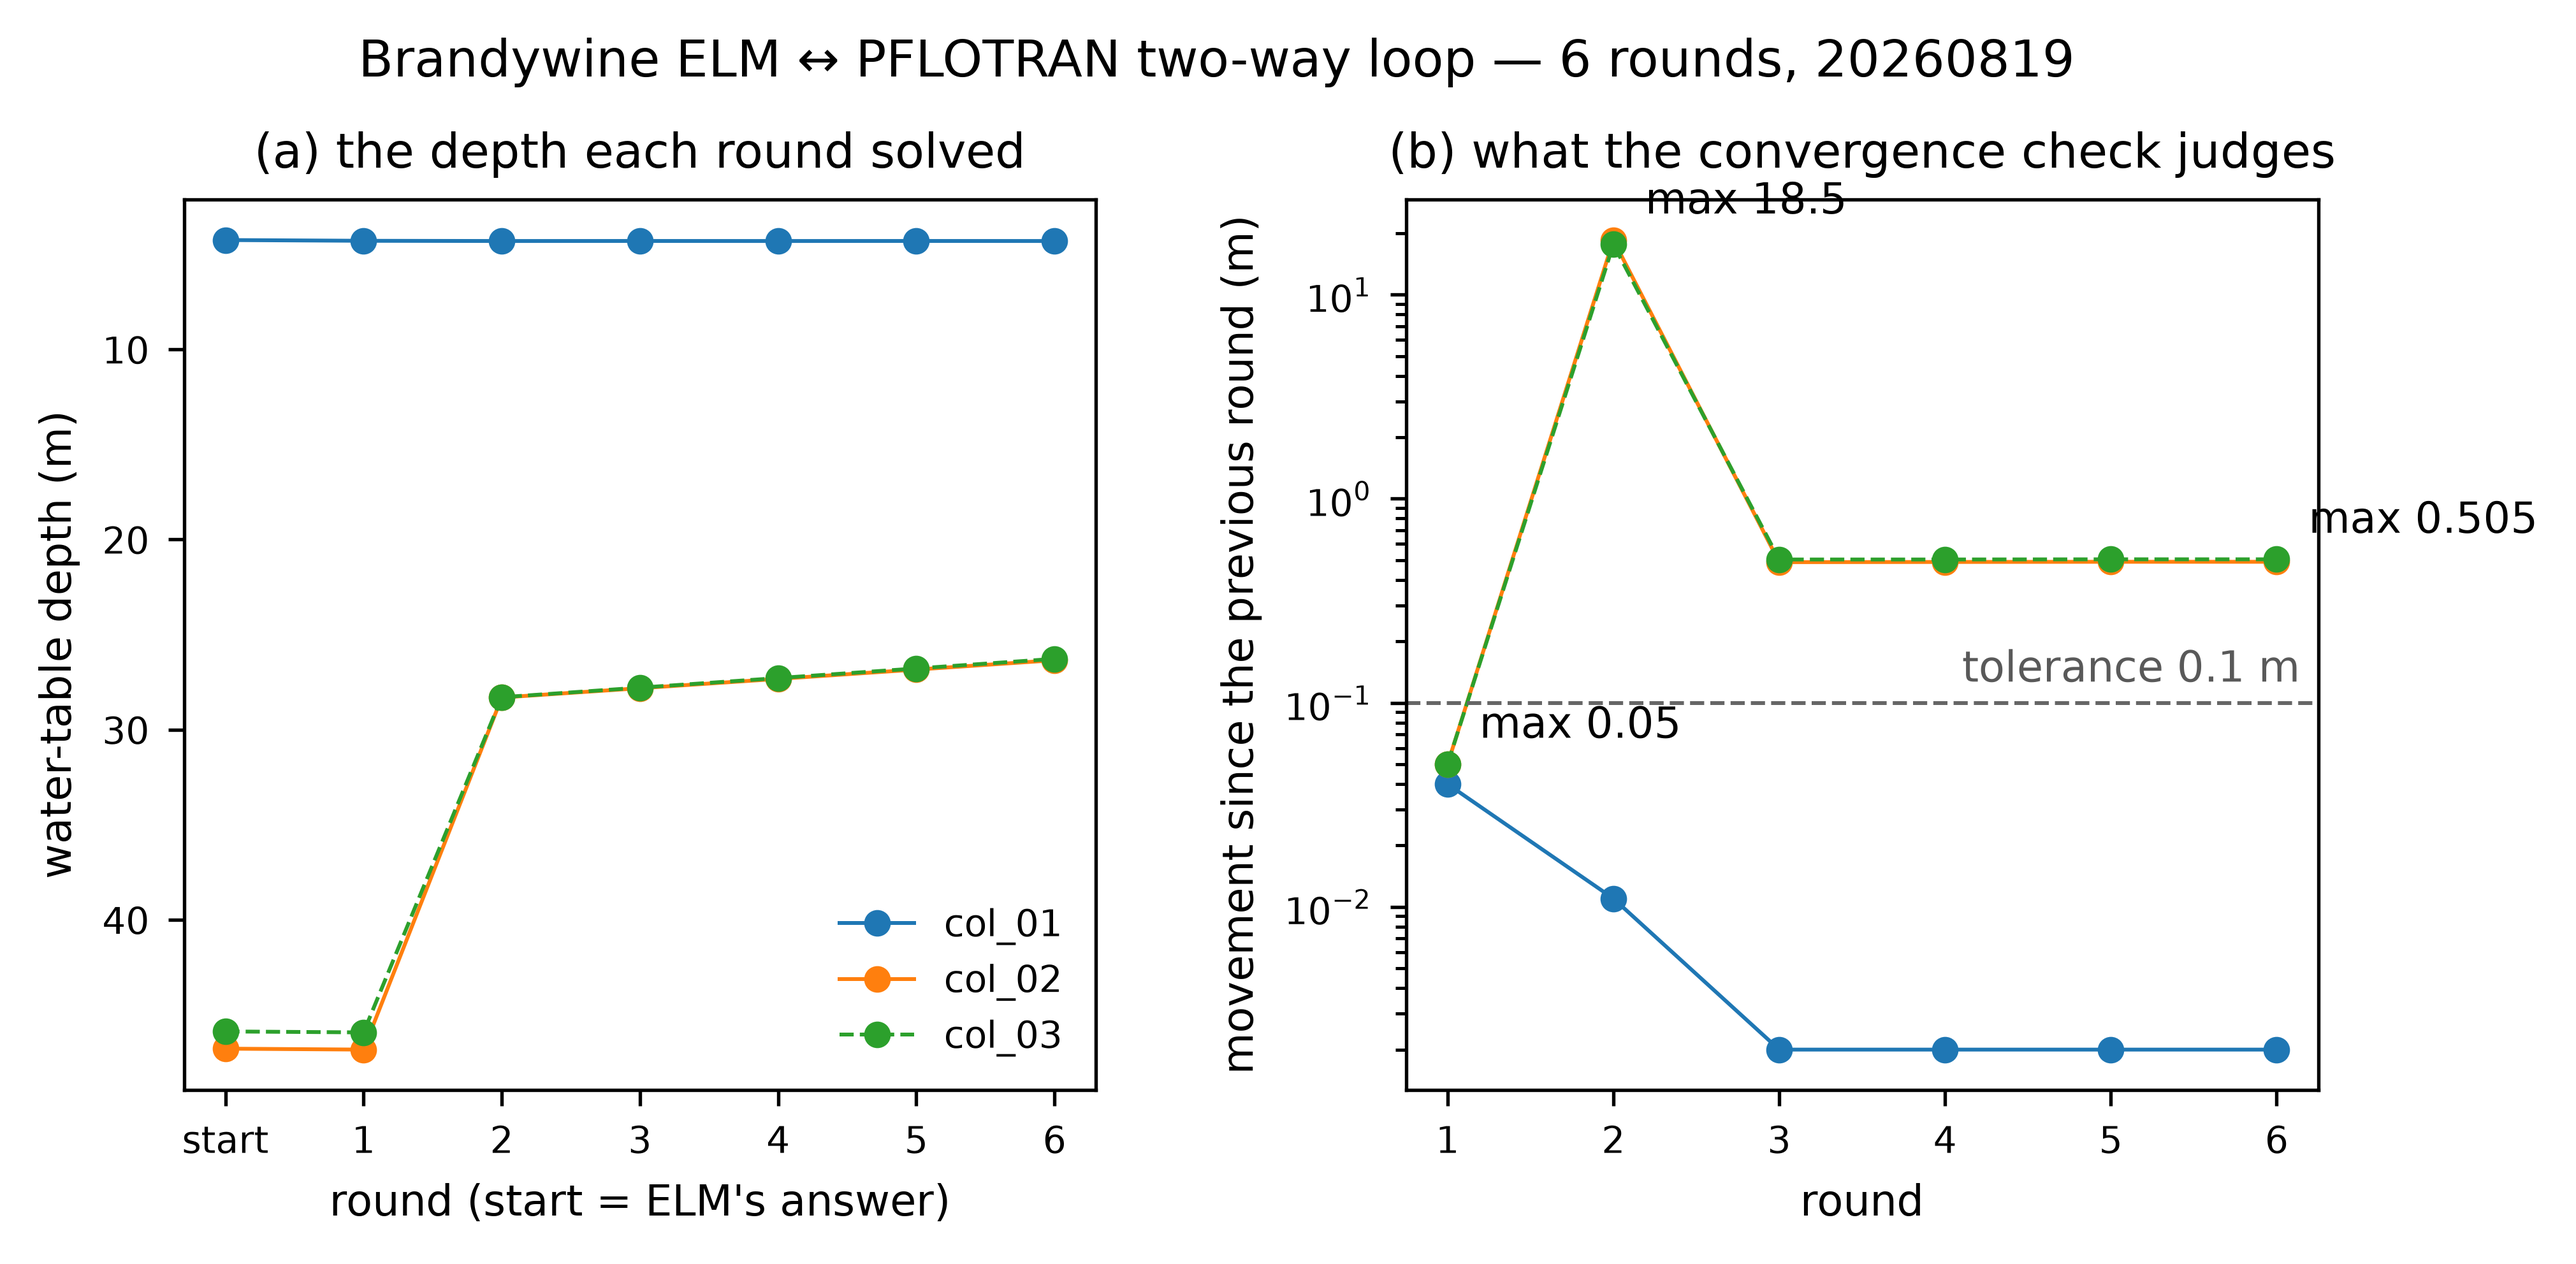
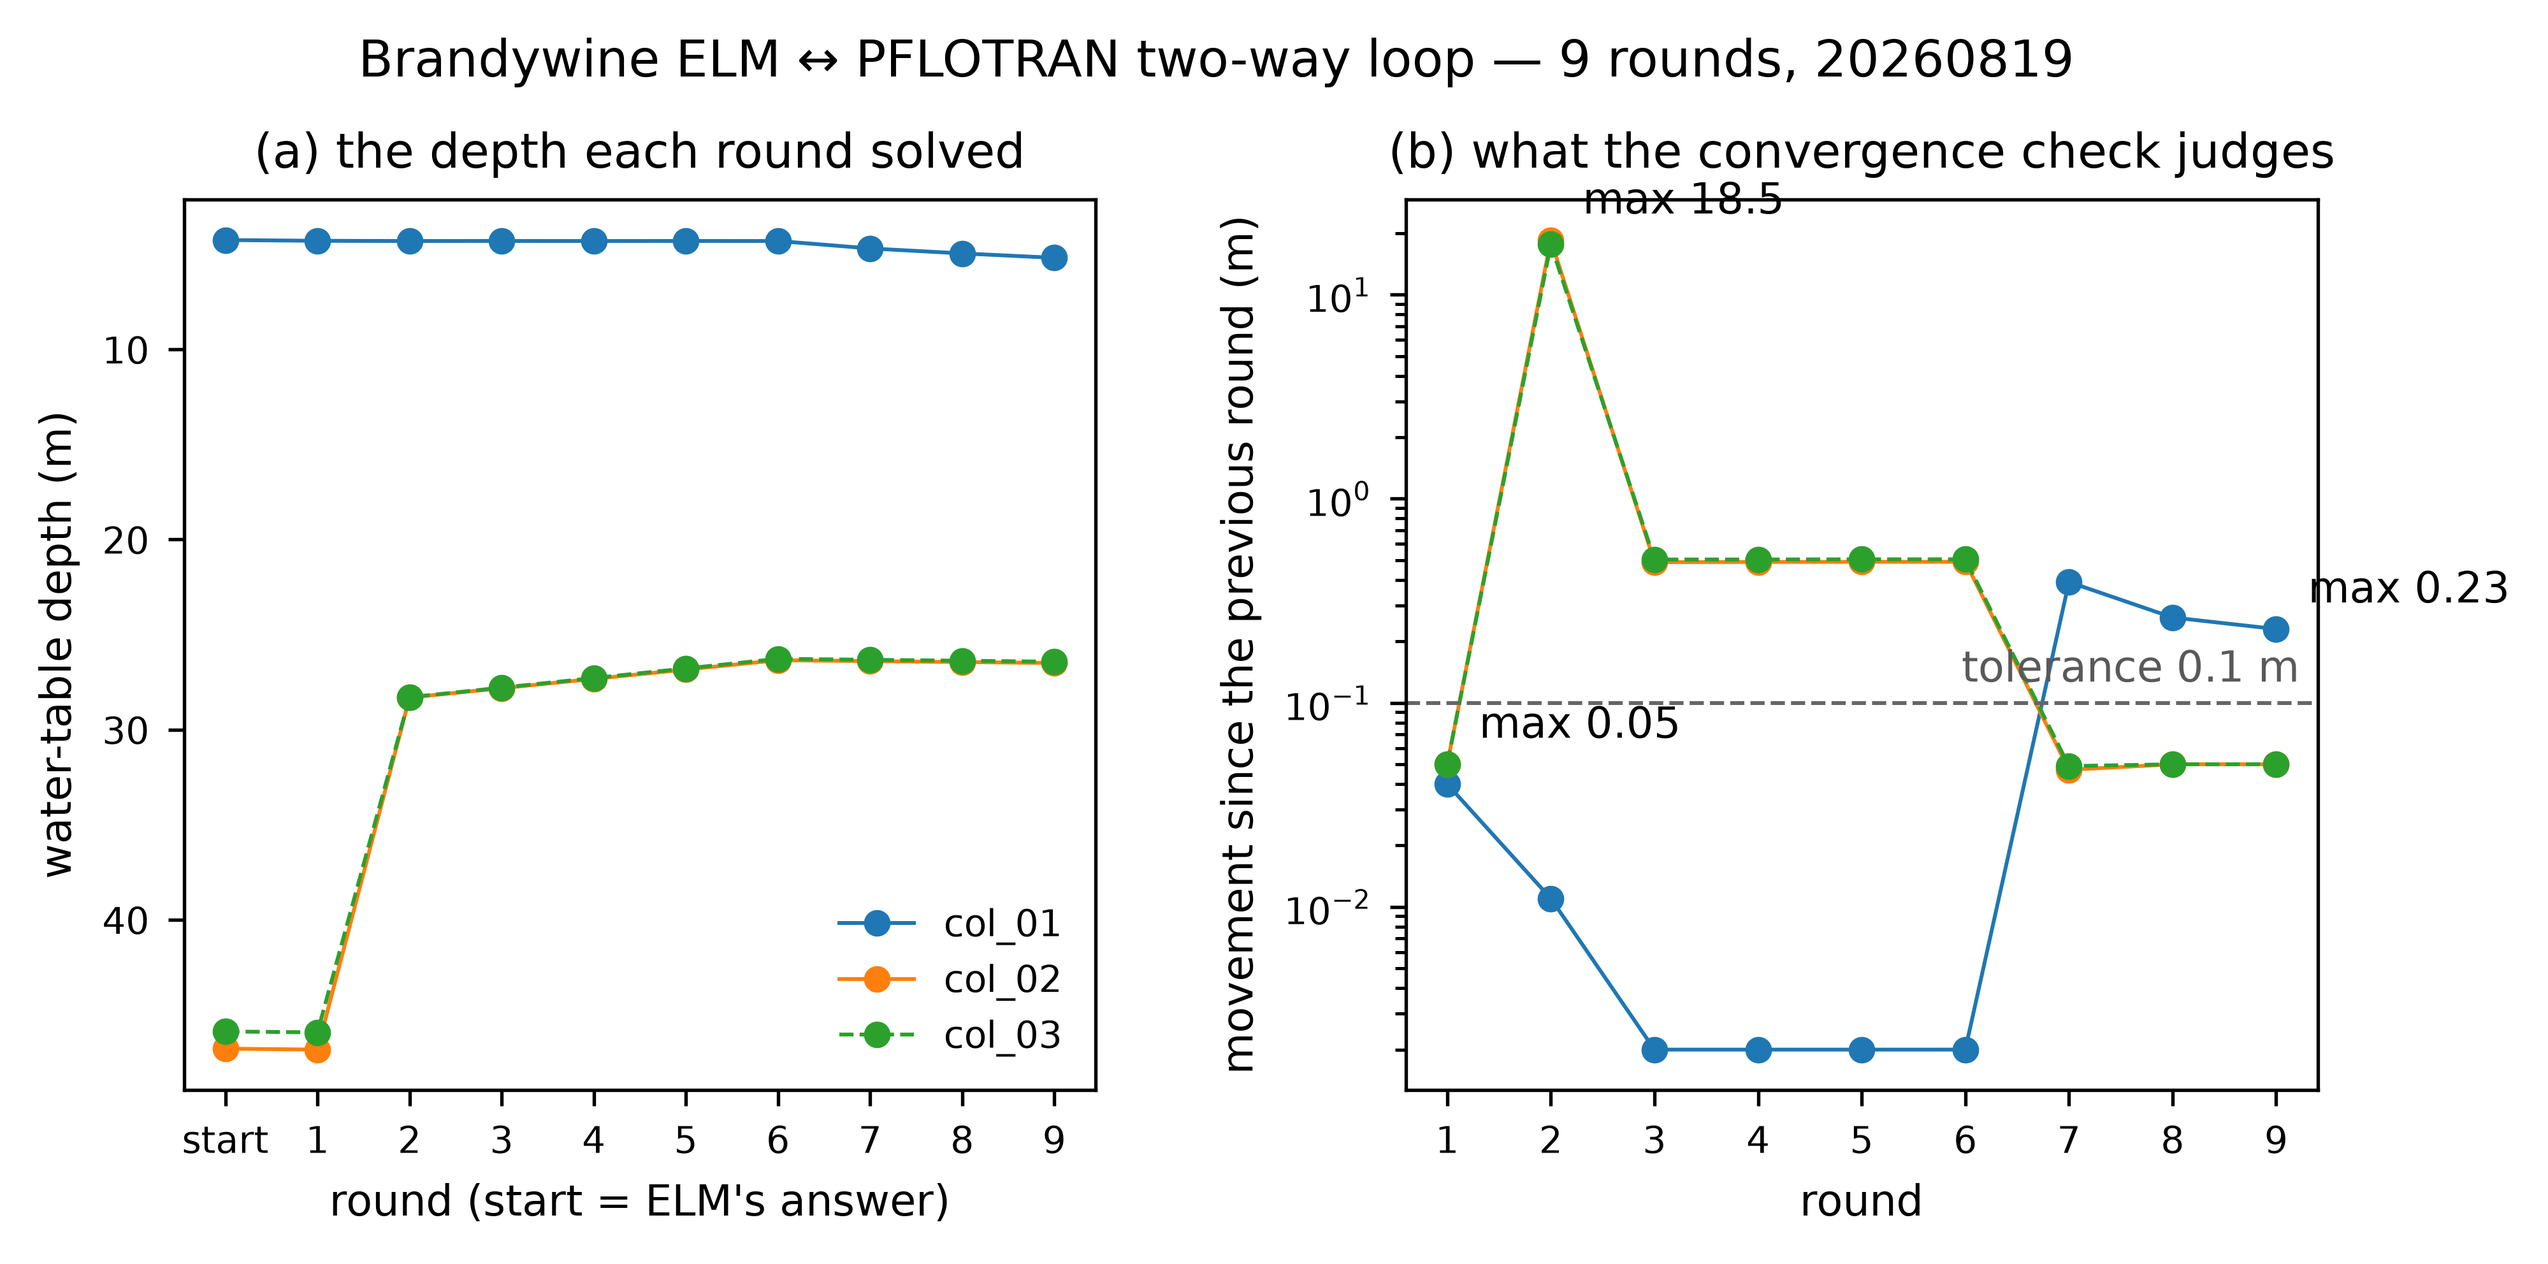
Nine rounds: the deep-column drift was the incoherent start, and it is gone
Job 774852 (rounds 7-9, the first with the full-state return leg)
measured what the soil-moisture stamp changes. The deep columns' constant
0.50 m-per-round march — four rounds without shrinking under the
water-table-only return — collapsed to 0.05 m per round (the anchor
offset's floor, inside tolerance) the moment ELM started from PFLOTRAN's
own moisture. The shallow column then re-equilibrated to its drier soil:
0.39 -> 0.26 -> 0.23 m per round, still contracting at budget end and
already below its own within-year swing (0.38 m). Figure extended to all
nine rounds; slide 6 tells the corrected story.

diff --git a/docs/reference/results_slides.template.html b/docs/reference/results_slides.template.html
@@ -229,7 +229,7 @@
     <span class="eyebrow">6 · two-way coupling · PFLOTRAN's groundwater corrects ELM</span>
     <span class="pill p-ok">6 rounds · each leg's verdict: sufficient</span>
   </div>
-  <div class="meta"><span>one SLURM job (773722) · sbatch once, both models inside</span><span>Brandywine-Christina · 2010</span><span>tolerance 0.10 m on movement between rounds</span></div>
+  <div class="meta"><span>nine rounds, two SLURM jobs (773722, 774852) — sbatch once each, both models inside</span><span>Brandywine-Christina · 2010</span><span>tolerance 0.10 m on movement between rounds</span></div>
   <p class="q">"Iterate: ELM's drainage drives PFLOTRAN; PFLOTRAN's solved water
      table becomes ELM's next starting state — until the water table stops
      moving."</p>
@@ -251,19 +251,19 @@
       <figcaption>Inside one return leg: ELM's own water table through the year, measured from the depth PFLOTRAN handed it. The Analyzer drew this unprompted — the coupling facts ride each column like any other fact.</figcaption></figure>
   </div>
   <ul class="res">
-    <li><b>Six full rounds inside a single 1 h 15 m allocation</b> — ELM ensembles run in place, PFLOTRAN inline, a convergence check between every round.</li>
-    <li>Round 2 delivered the big correction: <b>18.5 m</b> at the deep columns. The shallow column then settled at <b>0.002 m per round — converged</b>.</li>
-    <li>The deep columns move a constant <b>≈0.50 m every round</b> (0.504, 0.504, 0.505, 0.505): a steady physical drift — ELM sends them no drainage, PFLOTRAN keeps draining — not a shrinking numerical error.</li>
-    <li>Every ELM return leg was read by the Analyzer with no special casing: it found the coupling facts on the columns, drew the drift, and reported ELM holding within ≈1 m of the imposed water table.</li>
+    <li><b>Nine full rounds</b>, each allocation submitted once — ELM ensembles run in place, PFLOTRAN inline, a convergence check between every round. Round 2 delivered the big correction: <b>18.5 m</b> at the deep columns.</li>
+    <li>Rounds 3–6 handed back only the water table, and the deep columns marched a constant <b>≈0.50 m every round</b> — a drift that never shrank.</li>
+    <li>From round 7 the return leg carried PFLOTRAN's <b>whole state</b> — water table and soil moisture, converted with ELM's own porosity — and the drift <b>vanished</b>: the deep columns now move 0.05 m per round, inside tolerance. Most of the "drift" was the incoherent start draining away, not groundwater physics.</li>
+    <li>The shallow column then honestly re-equilibrated to its drier soil: <b>0.39 → 0.26 → 0.23 m per round</b>, still contracting at the budget's end — movement already smaller than its own within-year swing (0.38 m).</li>
+    <li>Every ELM return leg was read by the Analyzer with no special casing; the +0.05 m anchor offset is printed as a diagnostic, never the verdict.</li>
   </ul>
-  <div class="take"><b>take-away</b>The information flows PFLOTRAN → ELM: the
-    18.5 m round-2 correction is PFLOTRAN's groundwater physics repairing
-    starting states ELM cannot fix itself — its own groundwater is a single
-    store that bottoms out at 28.8 m, with drainage switched off below the
-    3.8 m active soil. ELM's flux is the boundary that keeps PFLOTRAN honest.
-    The machinery is proven — one job, six rounds, honest verdicts; what
-    remains is science: the deep columns drift 0.5 m per round toward a much
-    deeper balance.</div>
+  <div class="take"><b>take-away</b>The information flows PFLOTRAN → ELM — and
+    handing back the <i>whole</i> state matters. The water table alone left a
+    0.5 m-per-round artifact that looked like physics; adding the soil
+    moisture, converted with ELM's own porosity, removed it in one round.
+    Nine rounds, two jobs, honest verdicts throughout; what remains is one
+    shallow column finishing a real re-equilibration, its movement already
+    below its own annual swing.</div>
 </section>
 
 <!-- ── summary ──────────────────────────────────────────────────── -->
